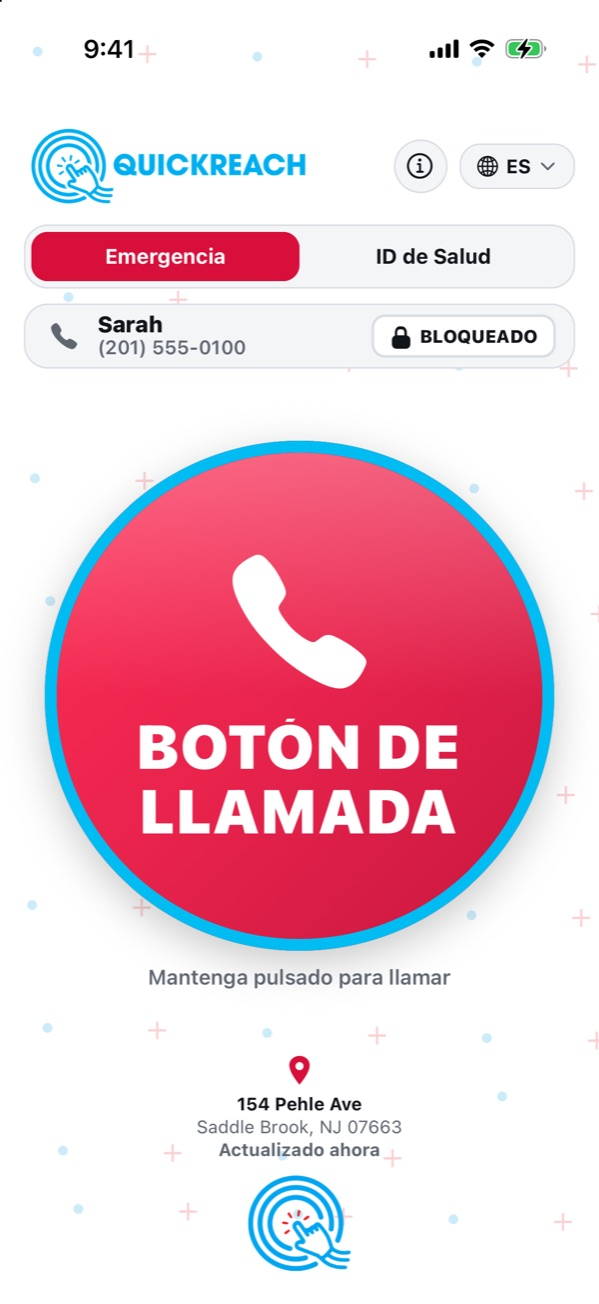
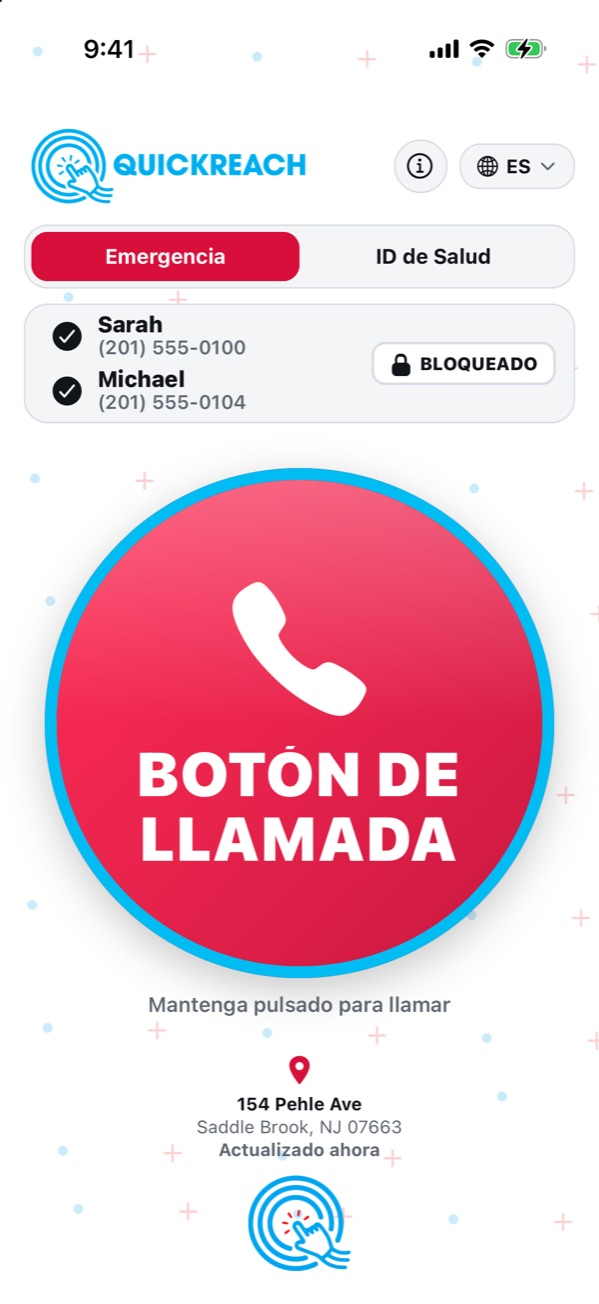
QUICKREACH phone pictures show two contacts, Sarah and Michael, each with a check circle, in all 8 languages. The red hold ring moves down to match the button (it sits a little lower now), and the picture descriptions mention both contacts.

Changed region(s): [[0.0601, 0.2454, 0.9316, 0.7975], [0.6311, 0.2454, 0.9616, 0.3067]]

diff --git a/index.html b/index.html
@@ -157,7 +157,7 @@
 
   /* ---------- Phone with the real screenshot ---------- */
   .phone {
-    --cx: 0.5; --cy: 0.5334; --d: 0.8191; --ring: #DE1F4C;
+    --cx: 0.5; --cy: 0.5541; --d: 0.8191; --ring: #DE1F4C;
     width: min(300px, 100%); max-width: 100%; position: relative;
     border-radius: 46px; padding: 10px;
     background: linear-gradient(145deg, #F4F6F8 0%, #C3C9CF 28%, #E9ECEF 52%, #A9B0B7 78%, #DDE1E5 100%);
@@ -169,7 +169,7 @@
      picture) and size (--d ≈ 0.963 × the blue ring's outer width). Re-measure
      when the pictures are retaken. The KIDS button changes size a little with
      the language (taller tile text makes it smaller). */
-  .phone[data-lang="hi"] { --cy: 0.5341; }
+  .phone[data-lang="hi"] { --cy: 0.5548; }
   .phone[data-app="kids"] { --cx: 0.5; --cy: 0.5920; --d: 0.7202; --ring: #DE1F4C; }
   .phone[data-app="kids"][data-lang="de"] { --cy: 0.5890; --d: 0.7324; }
   .phone[data-app="kids"][data-lang="fil"] { --cy: 0.5913; --d: 0.7259; }
@@ -408,7 +408,7 @@
 
         <div class="phone" id="phone" data-app="adult" role="tabpanel" aria-labelledby="tab-adult">
           <div class="shot">
-            <img id="phone-img" src="img/qr-call-en.jpg" alt="QUICKREACH home screen: the red Call Button, the emergency contact Sarah, and the current address" width="600" height="1304">
+            <img id="phone-img" src="img/qr-call-en.jpg" alt="QUICKREACH home screen: the red Call Button, the emergency contacts Sarah and Michael with check circles, and the current address" width="600" height="1304">
             <button type="button" class="hold" id="hold" aria-label="Call Button demo: press and hold" data-i18n-attr="aria-label:a_hold" aria-describedby="call-hint">
               <svg viewBox="0 0 100 100" aria-hidden="true">
                 <circle class="prog" id="ring" cx="50" cy="50" r="47" fill="none" stroke-width="3.2" stroke-linecap="round" stroke-dasharray="295.31" stroke-dashoffset="295.31"/>
@@ -744,7 +744,7 @@
   "js_copied": "Copiado",
   "js_selected": "Seleccionado",
   "js_calling": "Llamando a Sarah",
-  "js_alt_adult": "Pantalla de inicio de QUICKREACH: el Botón de Llamada rojo, el contacto de emergencia Sarah y la dirección actual",
+  "js_alt_adult": "Pantalla de inicio de QUICKREACH: el Botón de Llamada rojo, los contactos de emergencia Sarah y Michael con círculos de selección, y la dirección actual",
   "js_alt_kids": "Pantalla Llamar a Familia de QUICKREACH KIDS: las tarjetas Mamá y Papá, Otro 1 y Otro 2 sobre el Botón de Llamada naranja",
   "js_msg_adult": "Esta es una ALERTA de QUICKREACH:<br>Soy Maria. Por favor, llámeme lo antes posible. Estoy cerca de 154 Pehle Ave, Saddle Brook, NJ 07663.<br><br><u>Apple Maps</u><br><u>Google Maps</u>",
   "js_msg_kids": "QUICKREACH KIDS: Aquí estoy. Soy Emma. Estoy cerca de 154 Pehle Ave, Saddle Brook, NJ 07663.<br><br><u>Apple Maps</u><br><u>Google Maps</u>"
@@ -871,7 +871,7 @@
   "js_copied": "Copié",
   "js_selected": "Sélectionné",
   "js_calling": "Appel de Sarah",
-  "js_alt_adult": "Écran d'accueil de QUICKREACH : le Bouton d'appel rouge, le contact d'urgence Sarah et l'adresse actuelle",
+  "js_alt_adult": "Écran d'accueil de QUICKREACH : le Bouton d'appel rouge, les contacts d'urgence Sarah et Michael avec leurs cercles de sélection, et l'adresse actuelle",
   "js_alt_kids": "Écran Appeler la famille de QUICKREACH KIDS : les tuiles Maman et Papa, Autre 1 et Autre 2 au-dessus du Bouton d'appel orange",
   "js_msg_adult": "Ceci est une ALERTE QUICKREACH :<br>C'est Maria. Merci de m'appeler au plus vite. Je suis près de 154 Pehle Ave, Saddle Brook, NJ 07663.<br><br><u>Apple Plans</u><br><u>Google Maps</u>",
   "js_msg_kids": "QUICKREACH KIDS : Voici où je suis. C'est Emma. Je suis près de 154 Pehle Ave, Saddle Brook, NJ 07663.<br><br><u>Apple Plans</u><br><u>Google Maps</u>"
@@ -998,7 +998,7 @@
   "js_copied": "Kopiert",
   "js_selected": "Ausgewählt",
   "js_calling": "Sarah wird angerufen",
-  "js_alt_adult": "QUICKREACH Startbildschirm: die rote Anruftaste, der Notfallkontakt Sarah und die aktuelle Adresse",
+  "js_alt_adult": "QUICKREACH Startbildschirm: die rote Anruftaste, die Notfallkontakte Sarah und Michael mit Auswahlkreisen und die aktuelle Adresse",
   "js_alt_kids": "QUICKREACH KIDS Bildschirm Familie anrufen: die Kacheln Mama & Papa, Andere 1 und Andere 2 über der orangen Anruftaste",
   "js_msg_adult": "Dies ist ein QUICKREACH-ALARM:<br>Hier ist Maria. Bitte rufen Sie mich so schnell wie möglich an. Ich bin in der Nähe von 154 Pehle Ave, Saddle Brook, NJ 07663.<br><br><u>Apple Karten</u><br><u>Google Maps</u>",
   "js_msg_kids": "QUICKREACH KIDS: Hier bin ich. Hier ist Emma. Ich bin in der Nähe von 154 Pehle Ave, Saddle Brook, NJ 07663.<br><br><u>Apple Karten</u><br><u>Google Maps</u>"
@@ -1125,7 +1125,7 @@
   "js_copied": "Copiato",
   "js_selected": "Selezionato",
   "js_calling": "Chiamata a Sarah",
-  "js_alt_adult": "Schermata Home di QUICKREACH: il Tasto chiamata rosso, il contatto di emergenza Sarah e l'indirizzo attuale",
+  "js_alt_adult": "Schermata Home di QUICKREACH: il Tasto chiamata rosso, i contatti di emergenza Sarah e Michael con i cerchi di selezione e l'indirizzo attuale",
   "js_alt_kids": "Schermata Chiama famiglia di QUICKREACH KIDS: le schede Mamma e Papà, Altro 1 e Altro 2 sopra il Tasto chiamata arancione",
   "js_msg_adult": "Questo è un AVVISO QUICKREACH:<br>Sono Maria. Per favore chiamami il prima possibile. Sono vicino a 154 Pehle Ave, Saddle Brook, NJ 07663.<br><br><u>Apple Mappe</u><br><u>Google Maps</u>",
   "js_msg_kids": "QUICKREACH KIDS: Ecco dove sono. Sono Emma. Sono vicino a 154 Pehle Ave, Saddle Brook, NJ 07663.<br><br><u>Apple Mappe</u><br><u>Google Maps</u>"
@@ -1252,7 +1252,7 @@
   "js_copied": "Copiado",
   "js_selected": "Selecionado",
   "js_calling": "Ligando para Sarah",
-  "js_alt_adult": "Tela inicial do QUICKREACH: o Botão de chamada vermelho, o contato de emergência Sarah e o endereço atual",
+  "js_alt_adult": "Tela inicial do QUICKREACH: o Botão de chamada vermelho, os contatos de emergência Sarah e Michael com círculos de seleção e o endereço atual",
   "js_alt_kids": "Tela Ligar para família do QUICKREACH KIDS: os cartões Mamãe e Papai, Outro 1 e Outro 2 acima do Botão de chamada laranja",
   "js_msg_adult": "Este é um ALERTA do QUICKREACH:<br>Aqui é a Maria. Por favor, me ligue o quanto antes. Estou perto de 154 Pehle Ave, Saddle Brook, NJ 07663.<br><br><u>Apple Mapas</u><br><u>Google Maps</u>",
   "js_msg_kids": "QUICKREACH KIDS: Estou aqui. Aqui é a Emma. Estou perto de 154 Pehle Ave, Saddle Brook, NJ 07663.<br><br><u>Apple Mapas</u><br><u>Google Maps</u>"
@@ -1379,7 +1379,7 @@
   "js_copied": "कॉपी हो गया",
   "js_selected": "चुना गया",
   "js_calling": "Sarah को कॉल हो रही है",
-  "js_alt_adult": "QUICKREACH होम स्क्रीन: लाल कॉल बटन, आपातकालीन संपर्क Sarah और मौजूदा पता",
+  "js_alt_adult": "QUICKREACH होम स्क्रीन: लाल कॉल बटन, चुनने के गोलों के साथ आपातकालीन संपर्क Sarah और Michael, और मौजूदा पता",
   "js_alt_kids": "QUICKREACH KIDS की 'परिवार को कॉल' स्क्रीन: नारंगी कॉल बटन के ऊपर मम्मी और पापा, अन्य 1 और अन्य 2 टाइलें",
   "js_msg_adult": "यह QUICKREACH अलर्ट है:<br>मैं Maria हूँ। कृपया मुझे जल्द से जल्द कॉल करें। मैं 154 Pehle Ave, Saddle Brook, NJ 07663 के पास हूँ।<br><br><u>Apple Maps</u><br><u>Google Maps</u>",
   "js_msg_kids": "QUICKREACH KIDS: मैं यहाँ हूँ। मैं Emma हूँ। मैं 154 Pehle Ave, Saddle Brook, NJ 07663 के पास हूँ।<br><br><u>Apple Maps</u><br><u>Google Maps</u>"
@@ -1506,7 +1506,7 @@
   "js_copied": "Nakopya",
   "js_selected": "Napili",
   "js_calling": "Tinatawagan si Sarah",
-  "js_alt_adult": "Home screen ng QUICKREACH: ang pulang Call Button, ang emergency contact na si Sarah, at ang kasalukuyang address",
+  "js_alt_adult": "Home screen ng QUICKREACH: ang pulang Call Button, ang mga emergency contact na sina Sarah at Michael na may bilog na pampili, at ang kasalukuyang address",
   "js_alt_kids": "Screen na Tawagan ang Pamilya ng QUICKREACH KIDS: ang mga tile na Nanay at Tatay, Iba pa 1 at Iba pa 2 sa itaas ng orange na Call Button",
   "js_msg_adult": "Ito ay QUICKREACH ALERT:<br>Si Maria ito. Pakitawagan ako agad. Malapit ako sa 154 Pehle Ave, Saddle Brook, NJ 07663.<br><br><u>Apple Maps</u><br><u>Google Maps</u>",
   "js_msg_kids": "QUICKREACH KIDS: Narito ako. Si Emma ito. Malapit ako sa 154 Pehle Ave, Saddle Brook, NJ 07663.<br><br><u>Apple Maps</u><br><u>Google Maps</u>"
@@ -1915,7 +1915,7 @@
   var APPS = {
     adult: {
       img: 'img/qr-call',
-      alt: 'QUICKREACH home screen: the red Call Button, the emergency contact Sarah, and the current address',
+      alt: 'QUICKREACH home screen: the red Call Button, the emergency contacts Sarah and Michael with check circles, and the current address',
       calling: 'Calling Sarah',
       msg: 'This is a QUICKREACH ALERT:<br>This is Maria. Please call me ASAP. I\'m near 154 Pehle Ave, Saddle Brook, NJ 07663.<br><br><u>Apple Maps</u><br><u>Google Maps</u>'
     },
